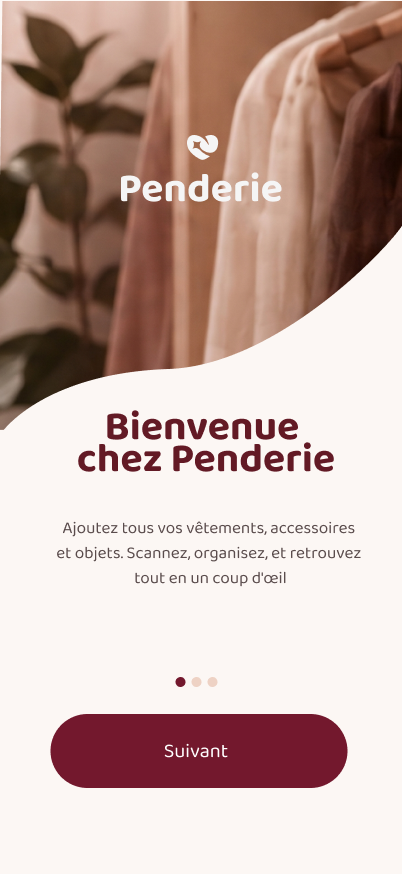
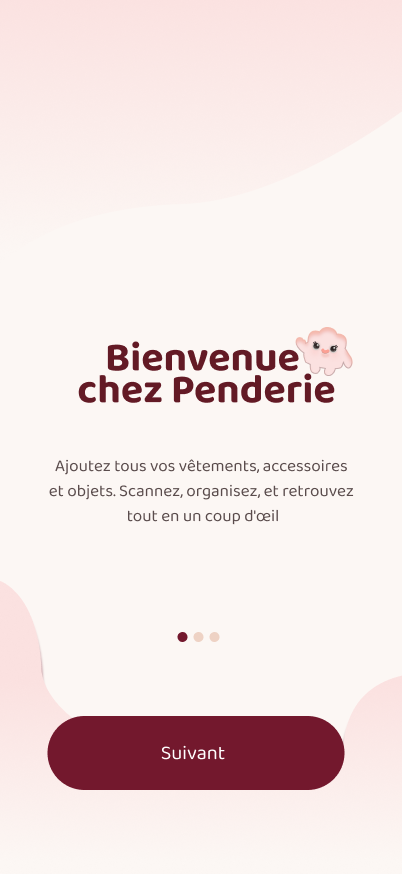
feat(frontend): rebuild the welcome screen from its wireframe
Follow the wireframe workflow from style.md with the updated Home-page.png:

- Home.tsx drops the photo/curve/logo for a full-height SVG background:
  a top --rose-wash -> --creme wash cut by a curve sampled from the
  wireframe (both edges land within 1-5px at 402px) and a bottom
  --rose-wash blob fading out under the button (edges within 0-3px).
- The home_page_buddie.svg mascot (68x58) is pinned over the title's
  first line; its rendered profile matches the mockup row by row.
- Typography measured against the mockup: 40px/0.82 title with a 0.55px
  letter-spacing (glyph runs then match), tagline 17px/1.47 at 47px
  margin, dots 10px with a 6px gap, and a 297x74 CTA. Title, tagline,
  dots and button rows land pixel-exact at 402px.
- New --rose-wash token (the mockup pink fits no existing rose token),
  style.md updated (title row, CTA height, onboarding description).
- Home test now asserts the mascot element instead of the removed logo.

Se connecter is kept (absent from the mockup but needed functionally) and
still links to /inscription from the CTA until the onboarding carousel is
wired; make qa is green (47 tests).

diff --git a/frontend/src/pages/Home.tsx b/frontend/src/pages/Home.tsx
@@ -1,40 +1,54 @@
 import { Fragment } from 'react'
 import { Link } from 'react-router-dom'
 import { getCopy } from '../i18n/copy.ts'
-import heroPhoto from '../images/penderie-home-page.jpg'
-import logo from '../images/penderie-logo.png'
+import buddie from '../images/icons/home_page_buddie.svg'
 
-const CURVE_VIEWBOX = '0 0 402 874'
+const BG_VIEWBOX = '0 0 402 874'
 
-const CURVE_PATH =
-  'M0,430C3.3,427.5 13.3,419.8 20,415C26.7,410.2 33.3,405 40,401C46.7,397 53.3,393.8 60,391C66.7,388.2 73.3,386.2 80,384C86.7,381.8 93.3,379.7 100,378C106.7,376.3 113.3,375.2 120,374C126.7,372.8 133.3,371.7 140,371C146.7,370.3 153.3,370.3 160,370C166.7,369.7 173.3,369.8 180,369C186.7,368.2 193.3,366.5 200,365C206.7,363.5 213.3,362.2 220,360C226.7,357.8 233.3,354.8 240,352C246.7,349.2 253.3,346.3 260,343C266.7,339.7 273.3,336 280,332C286.7,328 293.3,323.5 300,319C306.7,314.5 313.3,310 320,305C326.7,300 333.3,294.5 340,289C346.7,283.5 353.3,278.2 360,272C366.7,265.8 373.3,258.9 380,252C386.7,245.1 396.5,234.2 402,230L402,874L0,874Z'
+const WASH_PATH =
+  'M0,0 L402,0 L402,112 C399,112.7 395.8,114.7 394,116 C392.2,117.3 390.8,118.7 389,120 C387.2,121.3 385,122.7 383,124 C381,125.3 379.2,126.7 377,128 C374.8,129.3 372.2,130.7 370,132 C367.8,133.3 366,134.7 364,136 C362,137.3 360.2,138.7 358,140 C355.8,141.3 353.3,142.7 351,144 C348.7,145.3 346.3,146.7 344,148 C341.7,149.3 339.3,150.7 337,152 C334.7,153.3 332.5,154.7 330,156 C327.5,157.3 324.5,158.7 322,160 C319.5,161.3 317.5,162.7 315,164 C312.5,165.3 309.8,166.7 307,168 C304.2,169.3 301,170.7 298,172 C295,173.3 292,174.7 289,176 C286,177.3 283.2,178.7 280,180 C276.8,181.3 273.5,182.7 270,184 C266.5,185.3 262.8,186.7 259,188 C255.2,189.3 251.5,190.7 247,192 C242.5,193.3 237.5,194.7 232,196 C226.5,197.3 224.2,198.7 214,200 C203.8,201.3 184.8,202.7 171,204 C157.2,205.3 141.5,206.7 131,208 C120.5,209.3 114.5,210.7 108,212 C101.5,213.3 97,214.7 92,216 C87,217.3 82.2,218.7 78,220 C73.8,221.3 70.7,222.7 67,224 C63.3,225.3 59.3,226.7 56,228 C52.7,229.3 49.8,230.7 47,232 C44.2,233.3 41.5,234.7 39,236 C36.5,237.3 38.5,238.3 32,240 C25.5,241.7 5.3,245 0,246 Z'
+
+const BOTTOM_PATH =
+  'M0,581 C7.5,585.3 12.3,589.3 15,592 C17.7,594.7 20,597.3 22,600 C24,602.7 25.7,605.3 27,608 C28.3,610.7 29,613.3 30,616 C31,618.7 31.8,620.7 33,624 C34.2,627.3 35.8,632 37,636 C38.2,640 39.2,644.7 40,648 C40.8,651.3 41.5,653.3 42,656 C42.5,658.7 42.7,661.3 43,664 C43.3,666.7 43.7,669.3 44,672 C44.3,674.7 44.7,677.3 45,680 C45.3,682.7 45,685.3 46,688 C47,690.7 49.2,693.3 51,696 C52.8,698.7 54.5,700.3 57,704 C59.5,707.7 61.8,713 66,718 C70.2,723 74.3,728.7 82,734 C89.7,739.3 100.3,745.8 112,750 C123.7,754.2 137.3,756.8 152,759 C166.7,761.2 183.7,762.7 200,763 C216.3,763.3 234.7,762.7 250,761 C265.3,759.3 280.3,755.3 292,753 C303.7,750.7 312.5,748.2 320,747 C327.5,745.8 333,745.8 337,746 C341,746.2 342.5,750.7 344,748 C345.5,745.3 345,735.3 346,730 C347,724.7 348.5,720 350,716 C351.5,712 353.2,709 355,706 C356.8,703 358.5,700.7 361,698 C363.5,695.3 366.5,692.7 370,690 C373.5,687.3 378.7,683.8 382,682 C385.3,680.2 386.7,680 390,679 C393.3,678 400,676.5 402,676 L402,874 L0,874 Z'
 
 export default function Home() {
   const copy = getCopy().home
 
   return (
     <section className="welcome">
-      <img src={heroPhoto} alt="" className="welcome__photo" />
       <svg
-        className="welcome__curve"
-        viewBox={CURVE_VIEWBOX}
+        className="welcome__bg"
+        viewBox={BG_VIEWBOX}
         preserveAspectRatio="none"
         aria-hidden="true"
         focusable="false"
       >
-        <path d={CURVE_PATH} />
+        <defs>
+          <linearGradient id="welcome-wash" x1="0" y1="0" x2="0" y2="260" gradientUnits="userSpaceOnUse">
+            <stop offset="0" style={{ stopColor: 'var(--rose-wash)' }} />
+            <stop offset="1" style={{ stopColor: 'var(--creme)' }} />
+          </linearGradient>
+          <linearGradient id="welcome-blob" x1="0" y1="686" x2="0" y2="862" gradientUnits="userSpaceOnUse">
+            <stop offset="0" stopOpacity="1" style={{ stopColor: 'var(--rose-wash)' }} />
+            <stop offset="1" stopOpacity="0" style={{ stopColor: 'var(--rose-wash)' }} />
+          </linearGradient>
+        </defs>
+        <path d={WASH_PATH} fill="url(#welcome-wash)" />
+        <path d={BOTTOM_PATH} fill="url(#welcome-blob)" />
       </svg>
-      <img src={logo} alt="Penderie" className="welcome__logo" />
 
       <div className="welcome__body">
-        <h1 className="welcome__title">
-          {copy.titleLines.map((line, index) => (
-            <Fragment key={line}>
-              {index > 0 && ' '}
-              <span>{line}</span>
-            </Fragment>
-          ))}
-        </h1>
+        <div className="welcome__head">
+          <img src={buddie} alt="" className="welcome__buddie" />
+          <h1 className="welcome__title">
+            {copy.titleLines.map((line, index) => (
+              <Fragment key={line}>
+                {index > 0 && ' '}
+                <span>{line}</span>
+              </Fragment>
+            ))}
+          </h1>
+        </div>
         <p className="welcome__tagline">{copy.tagline}</p>
 
         <div className="welcome__foot">

diff --git a/frontend/src/index.css b/frontend/src/index.css
@@ -8,6 +8,7 @@
   --rose-poudre: #fad9e0;
   --rose-blush: #f8e8e5;
   --rose-sable: #eed2c4;
+  --rose-wash: #fbe1e0;
   --creme: #fcf7f4;
   --gris-rose: #c88a9a;
   --bleu-lien: #56658a;
@@ -136,58 +137,48 @@ p {
   min-height: 100dvh;
   max-width: 480px;
   margin: 0 auto;
+  background: var(--creme);
 }
 
-.welcome__photo {
-  position: absolute;
-  top: 0;
-  left: 0;
-  width: 100%;
-  height: 49.2%;
-  object-fit: cover;
-  object-position: 40% 40%;
-  z-index: 0;
-}
-
-.welcome__curve {
+.welcome__bg {
   position: absolute;
   inset: 0;
   width: 100%;
   height: 100%;
-  z-index: 1;
+  z-index: 0;
   pointer-events: none;
-}
-
-.welcome__curve path {
-  fill: var(--creme);
-}
-
-.welcome__logo {
-  position: absolute;
-  top: 15.4%;
-  left: 50%;
-  transform: translateX(-50%);
-  width: min(39.6%, 190px);
-  height: auto;
-  z-index: 2;
-  filter: brightness(0) invert(1);
 }
 
 .welcome__body {
   position: absolute;
-  inset: 45.8% 0 0;
-  z-index: 2;
+  inset: 38.9% 0 0;
+  z-index: 1;
   display: flex;
   flex-direction: column;
   align-items: center;
   text-align: center;
-  padding: 0 12.7% 50px;
+  padding: 0 11.9% 44px;
+}
+
+.welcome__head {
+  position: relative;
+  width: 100%;
+}
+
+.welcome__buddie {
+  position: absolute;
+  right: -5px;
+  top: -18px;
+  width: 68px;
+  height: auto;
+  pointer-events: none;
 }
 
 .welcome__title {
-  font-size: 34px;
-  line-height: 1.1;
+  font-size: 40px;
+  line-height: 0.82;
   font-weight: 700;
+  letter-spacing: 0.55px;
   color: var(--bordeaux-title);
 }
 
@@ -196,15 +187,14 @@ p {
 }
 
 .welcome__tagline {
-  margin-top: 34px;
+  margin-top: 47px;
   font-size: 17px;
-  line-height: 1.55;
+  line-height: 1.47;
   color: var(--gris-texte);
 }
 
 .welcome__foot {
   margin-top: auto;
-  padding-top: 40px;
   display: flex;
   flex-direction: column;
   align-items: center;
@@ -213,7 +203,7 @@ p {
 
 .welcome__dots {
   display: flex;
-  gap: 8px;
+  gap: 6px;
 }
 
 .dot {
@@ -228,8 +218,9 @@ p {
 }
 
 .btn.welcome__next {
-  margin-top: 28px;
-  min-height: 68px;
+  margin-top: 74px;
+  max-width: 297px;
+  min-height: 74px;
   font-size: 19px;
 }
 

diff --git a/frontend/src/pages/Home.test.tsx b/frontend/src/pages/Home.test.tsx
@@ -11,7 +11,7 @@ function renderHome() {
     </MemoryRouter>
   )
 
-  render(page)
+  return render(page)
 }
 
 describe('Home', () => {
@@ -20,11 +20,11 @@ describe('Home', () => {
   })
 
   it('renders the welcome onboarding screen', () => {
-    renderHome()
+    const { container } = renderHome()
 
     expect(screen.getByRole('heading', { name: 'Bienvenue chez Penderie' })).toBeInTheDocument()
     expect(screen.getByText(/Ajoutez tous vos vêtements/)).toBeInTheDocument()
-    expect(screen.getByAltText('Penderie')).toBeInTheDocument()
+    expect(container.querySelector('.welcome__buddie')).toBeInTheDocument()
   })
 
   it('links to registration and sign-in', () => {

diff --git a/style.md b/style.md
@@ -14,6 +14,7 @@ Token: `--font: 'Baloo Chettan 2', system-ui, 'Segoe UI', Roboto, sans-serif`
 | Element | Weight | Size (mobile) | Size (≥900px) | Line height | Color |
 | --- | --- | --- | --- | --- | --- |
 | `h1` | 700 | 34px | 44px | 1.1 | `--bordeaux-title` |
+| Welcome title (`.welcome__title`) | 700 | 40px | 44px | 0.82 stacked | `--bordeaux-title` |
 | Auth titles (`.register__title` / `.login__title` / `.verify__title`) | 700 | 40px | 44px | 0.78 stacked / 1.1 single-line | `--bordeaux-title` |
 | `h2` | 700 | 24px | 30px | 1.2 | `--bordeaux-title` |
 | `h3` | 600 | 19px | 22px | 1.3 | `--bordeaux-title` |
@@ -21,7 +22,8 @@ Token: `--font: 'Baloo Chettan 2', system-ui, 'Segoe UI', Roboto, sans-serif`
 | Small / hint | 400–600 | 13–15px | 13–15px | 1.45 | `--gris-texte` |
 | Button label | 600 | 16px (19px for the onboarding CTA) | same | 1 | inherit |
 
-Rules: no all-caps headings, no letter-spacing tricks, no underlines except for secondary text
+Rules: no all-caps headings, no letter-spacing tricks (the welcome title's `0.55px` is the single
+exception, it matches its wireframe glyph run), no underlines except for secondary text
 links. Never mix font families inside a page.
 
 ## Colors
@@ -34,6 +36,7 @@ links. Never mix font families inside a page.
 | `--bordeaux-deep` | `#521825` | Hover/pressed state of primary actions |
 | `--gris-texte` | `#5a4c4c` | Body copy, labels |
 | `--rose-sable` | `#eed2c4` | Inactive onboarding dots, subtle fills |
+| `--rose-wash` | `#fbe1e0` | Onboarding background gradient (top wash + bottom blob) |
 | `--rose-poudre` | `#fad9e0` | Borders, dividers |
 | `--rose-blush` | `#f8e8e5` | Soft backgrounds (chips, active nav) |
 | `--gris-rose` | `#c88a9a` | Muted accents |
@@ -49,16 +52,17 @@ use white text on `--creme` or `--rose-*`.
 
 - Base spacing unit: 4px; page gutters 20px (`--radius-card` container padding).
 - Card radius `--radius-card: 20px`, inputs `--radius-input: 12px`, buttons pill `999px`.
-- Minimum tap target `--tap: 44px`; onboarding CTA height 68px.
+- Minimum tap target `--tap: 44px`; onboarding CTA height 74px (297×74).
 
 ## Components
 
 - **Primary button** (`.btn.btn-primary`): full width, pill, `--bordeaux` on white text.
 - **Secondary button** (`.btn.btn-secondary`): pill, `--rose-blush` background.
 - **Card** (`.card`): white, `--rose-poudre` border, 20px radius, soft wine-tinted shadow.
-- **Onboarding screen** (`.welcome*`): full-height photo with a curved creme mask (SVG path in
-  `Home.tsx`), white logo over the photo, centered title/tagline, step dots (active `--bordeaux`,
-  inactive `--rose-sable`), CTA + sign-in link.
+- **Onboarding screen** (`.welcome*`): creme shell with a full-height SVG background (top
+  `--rose-wash` → `--creme` wash cut by a curve, bottom organic `--rose-wash` blob fading out),
+  the `home_page_buddie.svg` mascot pinned over the title's first line, centered 40px title /
+  tagline, step dots (active `--bordeaux`, inactive `--rose-sable`), 297×74 CTA + sign-in link.
 - **Pill field** (`.pill-group` > `.pill-field` + `.pill-field__icon` / `__input` / `__placeholder`):
   shared white pill input row with a left icon, sr-only label and placeholder; used by both auth
   screens.
@@ -86,5 +90,5 @@ use white text on `--creme` or `--rose-*`.
 - Wireframes live in `frontend/src/Wireframes/<Page>.png`; image assets in `frontend/src/images/`.
   A new screen starts from its wireframe: sample colors from it, reuse tokens from this table, and
   only introduce a new token when no existing one fits.
-- Photography and the logo are the only illustration assets; icons come from `lucide-react` and
-  inherit `currentColor`.
+- Photography, mascots and the logo are illustration assets in `frontend/src/images/`; icons come
+  from `lucide-react` and inherit `currentColor`.
